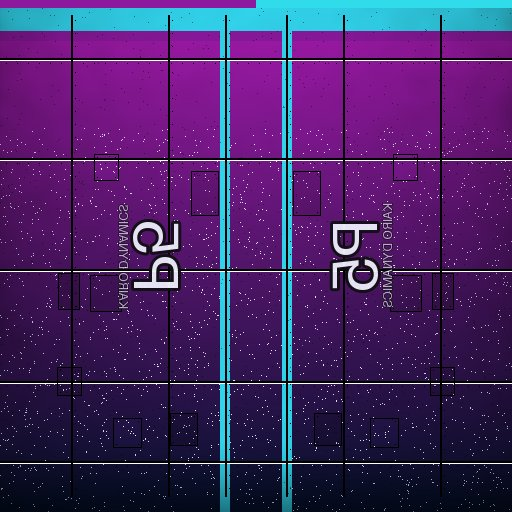
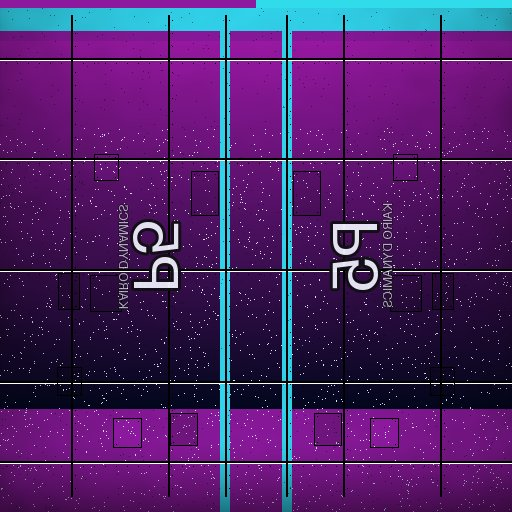
fix(garage): stage-3 review — an unstorable day never re-pays the board, SIDEWINDER's NOIR reads
- MUST: a `?day=` past the board's stored bound would never match itself
  and re-pay every job each race; `settleRace` now leaves the board alone for
  such a day and `today()` rejects it. Proven in validate-garage, along with a
  non-finite measurement neither paying a job nor poisoning the stored board
  (`jobGain` reads speed and slipstream through `count()` like every fact).
- MUST: SIDEWINDER's factory paint moves off near-black to graphite-plum,
  so its CR 600 NOIR is a visible change; the scheme sheet and swatches
  are re-pinned. NEBULA's fade reaches navy by the tail.
- The BODY row is one row of five, so GOLD LEAF is never left alone on a
  line; streak pips carry their state in words (`aria-label`,
  `aria-current`) and the seventh reads "GOLD +500"; the purse's GOLD
  LEAF line says it fits any bodied frame; `setPlayerCraft` returns early
  when nothing changed, so hover previews never rebuild the paddock grid.

Claude-Session: https://claude.ai/code/session_015UQX5D2JaSx2pHQyTyK4qZ

diff --git a/src/game/garage-ui.ts b/src/game/garage-ui.ts
@@ -503,6 +503,9 @@ export class GarageScreen {
       return this.paintRow("BODY", chips);
     }
     const frame = garage.chassis;
+    // Five schemes on a bodied frame: one row of five, so GOLD LEAF is never
+    // left on a line of its own.
+    chips.classList.add("garage__paints--body");
     for (const code of bodySchemes(frame)) {
       const card = schemeCard(code);
       const owned = code === "factory" || (code === "gold" ? garage.goldLeaf : garage.schemes.includes(`${frame}:${code}`));
@@ -613,9 +616,14 @@ export class GarageScreen {
     pips.setAttribute("aria-label", `STREAK LADDER · DAY ${rung} OF ${STREAK_PAY.length}`);
     for (const [index, pay] of STREAK_PAY.entries()) {
       const pip = node("li");
+      const today = countedToday && index === rung - 1;
       pip.dataset.on = String(index < rung);
-      pip.dataset.today = String(countedToday && index === rung - 1);
-      pip.append(node("small", "", index === STREAK_PAY.length - 1 && !garage.goldLeaf ? "GOLD" : `+${pay}`));
+      pip.dataset.today = String(today);
+      // The state is in the words as well as the colour.
+      const prize = index === STREAK_PAY.length - 1 && !garage.goldLeaf ? `GOLD LEAF + ${pay}` : `+${pay}`;
+      pip.setAttribute("aria-label", `DAY ${index + 1} · ${prize} · ${today ? "COUNTED TODAY" : index < rung ? "COUNTED" : "TO COME"}`);
+      if (today) pip.setAttribute("aria-current", "step");
+      pip.append(node("small", "", index === STREAK_PAY.length - 1 && !garage.goldLeaf ? `GOLD +${pay}` : `+${pay}`));
       pips.append(pip);
     }
     head.append(heading, pips);

diff --git a/src/game/garage-economy.js b/src/game/garage-economy.js
@@ -331,7 +331,9 @@ export function settleRace(garage, facts) {
   let { daily, goldLeaf } = garage;
   let unlocked = false;
   let next = "";
-  if (typeof facts.day === "number" && Number.isInteger(facts.day) && facts.day > 0) {
+  // A day the board cannot store would never match itself again and re-pay
+  // every job on every race, so it leaves the board alone like no day at all.
+  if (typeof facts.day === "number" && Number.isInteger(facts.day) && facts.day > 0 && facts.day <= MAX_COUNT) {
     const settled = settleDaily(readDaily(daily, facts.day), facts, completed.length, goldLeaf);
     lines.push(...settled.lines);
     daily = writeDaily(settled.state);
@@ -546,8 +548,8 @@ function jobGain(job, facts) {
     case "laps": return count(facts.laps);
     case "drifts": return count(facts.driftCashes);
     case "close": return inField ? count(facts.nearMisses) : 0;
-    case "draft": return inField ? Math.floor(Math.max(0, facts.slipstreamSeconds)) : 0;
-    case "speed": return Math.floor(Math.max(0, facts.topSpeedKph));
+    case "draft": return inField ? count(facts.slipstreamSeconds) : 0;
+    case "speed": return count(facts.topSpeedKph);
     case "podium": return inField && facts.position >= 1 && facts.position <= 3 ? 1 : 0;
     case "chain": return count(facts.cleanGateChain);
     case "circuit": return facts.track === job.track ? 1 : 0;

diff --git a/src/game/garage-catalog.js b/src/game/garage-catalog.js
@@ -185,7 +185,7 @@ export const SCHEME_CARDS = [
  */
 export const SCHEME_SWATCHES = {
   lance: { factory: ["#b2a88e", "#4abbc8"], noir: ["#08090a", "#4abbc8"], arctic: ["#d6d8db", "#4abbc8"], strike: ["#ccc9c1", "#c32b26"], gold: ["#e0ad3d", "#303034"] },
-  sidewinder: { factory: ["#151518", "#e75db1"], noir: ["#08090a", "#e75db1"], arctic: ["#d6d8db", "#e75db1"], neon: ["#282b30", "#26c3dc"], gold: ["#e0ad3d", "#303034"] },
+  sidewinder: { factory: ["#3f354f", "#e75db1"], noir: ["#08090a", "#e75db1"], arctic: ["#d6d8db", "#e75db1"], neon: ["#282b30", "#26c3dc"], gold: ["#e0ad3d", "#303034"] },
   bulwark: { factory: ["#4c4f35", "#f1cb4a"], noir: ["#08090a", "#f1cb4a"], arctic: ["#d6d8db", "#f1cb4a"], hazard: ["#f26607", "#262628"], gold: ["#e0ad3d", "#303034"] },
   corona: { factory: ["#212644", "#b18de9"], noir: ["#08090a", "#b18de9"], arctic: ["#d6d8db", "#b18de9"], nebula: ["#8c199e", "#30dce9"], gold: ["#e0ad3d", "#303034"] },
   halo: { factory: ["#1e2123", "#e7cc86"], noir: ["#08090a", "#e7cc86"], arctic: ["#d6d8db", "#e7cc86"], dazzle: ["#dbdde0", "#f99930"], gold: ["#e0ad3d", "#303034"] },

diff --git a/src/game/garage-purse.ts b/src/game/garage-purse.ts
@@ -41,7 +41,7 @@ function node<K extends keyof HTMLElementTagNameMap>(tag: K, className: string, 
  */
 export function today(now = Date.now()): number {
   const pinned = Number(new URLSearchParams(window.location.search).get("day"));
-  if (Number.isInteger(pinned) && pinned > 0) return pinned;
+  if (Number.isInteger(pinned) && pinned > 0 && pinned < 9_999_999) return pinned;
   return Math.floor((now - new Date(now).getTimezoneOffset() * 60_000) / 86_400_000);
 }
 
@@ -117,7 +117,7 @@ function renderPurse(settlement: Settlement, balance: number): void {
   if (settlement.goldLeaf) {
     const row = node("li", "purse__line");
     row.dataset.code = "unlock";
-    row.append(node("span", "", "GOLD LEAF UNLOCKED · FIT IT IN THE PAINT SHOP"));
+    row.append(node("span", "", "GOLD LEAF UNLOCKED · FITS ANY BODIED FRAME"));
     list.append(row);
   }
   const foot = node("p", "purse__foot");

diff --git a/src/game/style-garage.css b/src/game/style-garage.css
@@ -297,6 +297,10 @@ body[data-garage="true"] #game-canvas {
   grid-template-columns: repeat(4, minmax(0, 1fr));
 }
 
+.garage__paints--body {
+  grid-template-columns: repeat(5, minmax(0, 1fr));
+}
+
 .garage__paint {
   display: grid;
   grid-template-columns: 12px minmax(0, 1fr);
@@ -426,7 +430,7 @@ body[data-garage="true"] #game-canvas {
   padding: 0;
   list-style: none;
   display: grid;
-  grid-template-columns: repeat(7, 38px);
+  grid-template-columns: repeat(7, 42px);
   gap: 4px;
   font-family: var(--mono);
 }

diff --git a/src/game/ui.ts b/src/game/ui.ts
@@ -492,6 +492,7 @@ export class GameUi {
    * never sees it change, because the bay only opens between races.
    */
   setPlayerCraft(label: string, short: string, team: string): void {
+    if (label === this.craft.label && team === this.craft.team) return;
     this.craft = { label, short, team };
     this.introFooter.textContent = `${this.lead} · ${this.courseFooterLabel}`;
     this.renderDeck();

diff --git a/src/game/garage-rules.js b/src/game/garage-rules.js
@@ -177,7 +177,7 @@ export function craftNames(garage) {
   return {
     label: frame.name,
     short: frame.name.split(" ")[0],
-    team: frame.signature ? (body === "gold" ? "GOLD LEAF" : body.toUpperCase()) : "",
+    team: frame.signature ? body === "gold" ? "GOLD LEAF" : body.toUpperCase() : "",
   };
 }
 

diff --git a/art/blender/build_garage_frames.py b/art/blender/build_garage_frames.py
@@ -471,7 +471,7 @@ SIGNATURES = {
                dict(kind='band', v0=0.9, v1=1, colour=INK)])),
     'corona': ('nebula', lambda f: dict(
         f, base=(0.55, 0.1, 0.62), accent=(0.03, 0.72, 0.82), number=(0.95, 0.95, 1.0),
-        rules=[dict(kind='fade', v0=0.08, v1=1, colour=(0.62, 0.1, 0.66), colour2=(0.02, 0.07, 0.18)),
+        rules=[dict(kind='fade', v0=0.08, v1=0.8, colour=(0.62, 0.1, 0.66), colour2=(0.01, 0.03, 0.12)),
                dict(kind='stars', density=0.012, v0=0.25, colour=(0.9, 0.95, 1.0)),
                dict(kind='spine', at=[0.44, 0.56], width=0.02, colour=(0.2, 0.85, 0.95)),
                dict(kind='band', v0=0.0, v1=0.06, colour=(0.2, 0.85, 0.95))])),
@@ -665,7 +665,9 @@ FRAMES = {
     ),
     'sidewinder': dict(
         label='SIDEWINDER D2', number='D2', seed=47, glow=(1.0, 0.25, 0.66),
-        livery=dict(base=(0.085, 0.085, 0.095), accent=(0.80, 0.11, 0.44), number=(0.92, 0.22, 0.58),
+        # Graphite-plum rather than near-black, so NOIR on this frame reads as
+        # a change of paint rather than the same car (stage-3 review).
+        livery=dict(base=(0.25, 0.21, 0.31), accent=(0.80, 0.11, 0.44), number=(0.92, 0.22, 0.58),
                     number_u=0.3, number_v=0.5, number_size=70,
                     rules=[dict(kind='hazard', u0=0.18, u1=0.3, v0=0.12, v1=0.32, period=7, colour=(0.80, 0.11, 0.44)),
                            dict(kind='spine', at=[0.5], width=0.07, v0=0.05, v1=0.95, colour=(0.6, 0.6, 0.62)),
